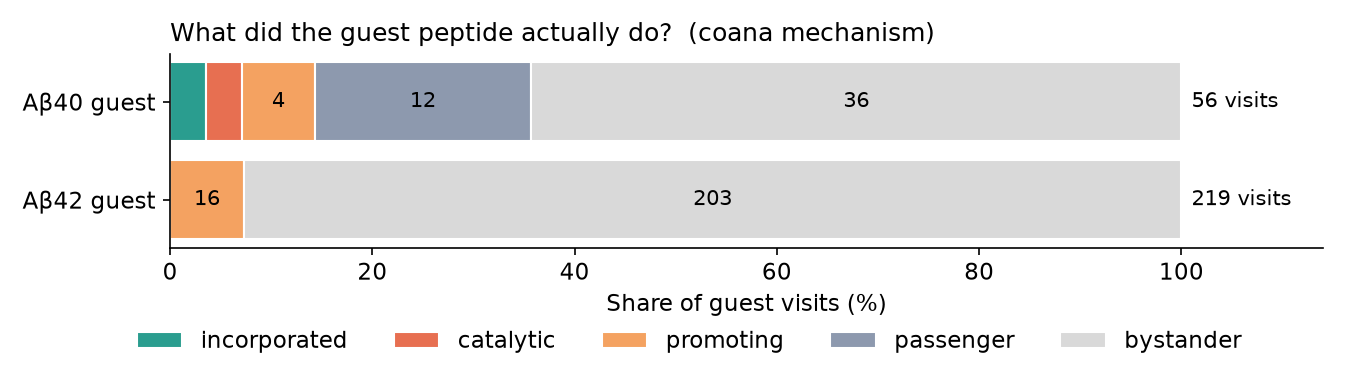
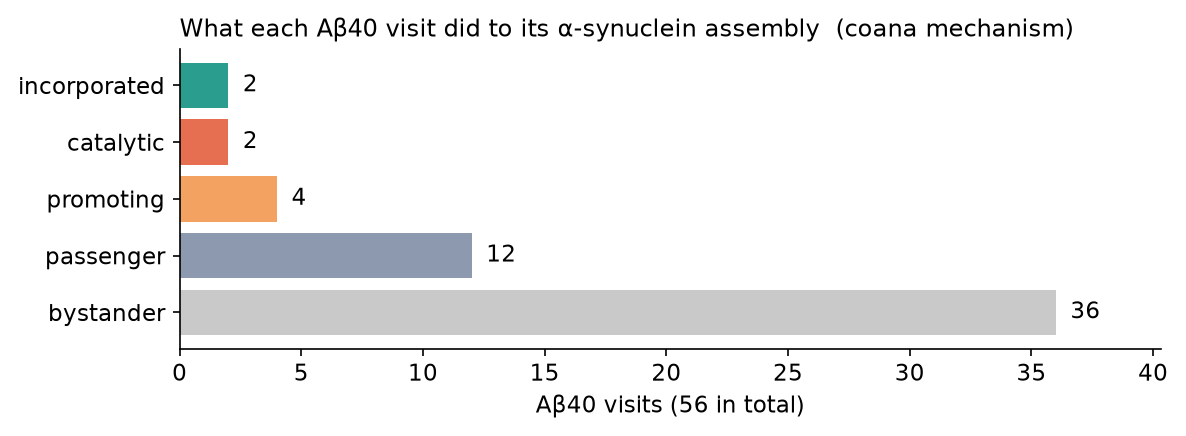
README: one-line promise, figures with their conditions, no cross-condition comparison
The three-run chart compared runs with different force-field parameters
(protein-water scaling 1.001 vs 1.010, different crowder scaling and
concentration), so its differences could not be read as effects of Abeta40
or Abeta42. It is removed. The README now leads with one run's lineage fates,
states each run's parameters, and shows the guest roles for a single run.
Quick start is three commands, checked on a real trajectory.

diff --git a/README.md b/README.md
@@ -1,6 +1,6 @@
 # CoAna — which oligomers mattered, and why
 
-*Lineage-aware analysis of protein aggregation in molecular dynamics.*
+**Find the oligomers that build the aggregate, not just count them.**
 
 [![PyPI](https://img.shields.io/pypi/v/coana.svg)](https://pypi.org/project/coana/)
 [![tests](https://github.com/nguoithamdo/CoAna/actions/workflows/ci.yml/badge.svg)](https://github.com/nguoithamdo/CoAna/actions/workflows/ci.yml)
@@ -13,63 +13,59 @@ you which lineages went on to build the final aggregate, which were dead ends,
 and what a second species (a guest peptide, a crowder partner) actually did while
 it was inside: incorporated, catalytic, passenger, promoting, or bystander.
 
-- **Reads trajectories directly** — PDB, GRO, TRR and XTC, with NumPy/SciPy only.
+![Lineage fate plot of one α-synuclein run](https://raw.githubusercontent.com/nguoithamdo/CoAna/main/docs/images/lineage_fate.png)
+
+*Every lineage in one run, coloured by fate: green lineages build the final
+43-chain assembly, red ones are dead ends. 50 α-synuclein chains, Martini 3
+with protein–water scaling λ<sub>PW</sub> = 1.001, no crowder, ≈519 µM,
+5 µs (5001 frames).*
+
+Cluster-counting tools tell you *which* clusters exist. CoAna tells you
+*which ones mattered* and *what a guest did*.
+
+- **Reads trajectories directly**: XTC, TRR, GRO and PDB, with NumPy/SciPy only.
   MDAnalysis is optional.
-- **Periodic boundaries done right** — exact minimum-image contacts; a trajectory
-  without a box is refused rather than analysed silently.
-- **Reproducible** — a re-run reproduces a production contact cache bit for bit.
-- **Tested** — every defect fixed since 3.4 has a regression test proven to fail
-  without its fix.
-
-**A short history.** CoAna (*Coupled Analysis Framework for Quantifying
-Biomolecular Assembly and Condensation Dynamics*) has been developed by
-Dr. Nguyen Truong Co since January 2024. It began as an analysis notebook for
-his own coarse-grained simulations of protein aggregation, and by December
-2025 it was a working research tool that two theses, one on α-synuclein phase
-separation and one on IAPP aggregation in type 2 diabetes, used for their
-analysis. In 2026 it became a package: a two-stage design with a reusable
-contact cache (spring), split/merge-aware lineages and fates (early summer),
-its own trajectory reader free of MDAnalysis (August), mixed systems and
-guest mechanisms (3.4, September), and a full correctness audit with an MIT
-license and the name `coana` (3.6, October). The full story is in
-[HISTORY.md](HISTORY.md).
-
-## What it looks like
-
-Three 5 µs Martini 3 simulations of 50 α-synuclein chains, analysed with CoAna.
-Alone, α-syn grows step by step into one 43-chain assembly. With Aβ40 and PEG it
-stalls at 23. With Aβ42 nothing grows past 6.
-
-![Largest assembly over time in three runs](https://raw.githubusercontent.com/nguoithamdo/CoAna/main/docs/images/three_runs.png)
-
-When a second peptide visits a cluster, `coana mechanism` labels the visit by
-what happened to the assembly. Most visits are brief encounters (bystander).
-Aβ40 also joins assemblies that have already committed (passenger), is there
-while an assembly grows (promoting), is present when one commits and then
-leaves (catalytic), or stays in the product (incorporated). Aβ42 visits are
-bystanders, apart from 16 during which the assembly grew.
-
-![Guest roles for Aβ40 and Aβ42](https://raw.githubusercontent.com/nguoithamdo/CoAna/main/docs/images/guest_roles.png)
-
-Every lineage, followed through splits and merges and coloured by its fate:
-on-pathway lineages feed the final aggregate; off-pathway ones are dead ends.
-
-![Lineage fate plot, α-syn alone](https://raw.githubusercontent.com/nguoithamdo/CoAna/main/docs/images/lineage_fate.png)
-
-How many clusters of each size exist at each moment (α-syn + Aβ40):
-
-![Oligomer size occupancy over time](https://raw.githubusercontent.com/nguoithamdo/CoAna/main/docs/images/size_time_heatmap.png)
-
-All four figures come from `coana precompute`, `coana lineage`,
-`coana mechanism` and `coana report` on these runs.
+- **Exact periodic contacts**: minimum-image contacts across every box face.
+- **Bit-for-bit reproducible**: re-running Stage A reproduces a production
+  contact cache exactly; 255 tests run on Linux and Windows.
 
 ```bash
 pip install coana
+coana precompute --traj prod.xtc --topology prod.gro --species aSyn:295x50 -o run.npz
+coana lineage run.npz        # on-/off-pathway lineages and their fates
+coana report  run.npz -o report.html
 ```
 
-Then `import coana` in Python, or run the `coana` command. The package was
-called `oligomer-analysis` before 3.6.0; `import oligomer_analysis` still
-works and refers to the very same modules.
+## More of what CoAna shows
+
+**What did the guest do?** In a run with 10 Aβ40 chains among the 50
+α-synuclein chains, `coana mechanism` labels each of the 56 Aβ40 visits by what
+happened to the assembly it visited. Most are brief encounters (bystander).
+Some join an assembly that has already committed (passenger), are there while
+it grows (promoting), are present when it commits and then leave (catalytic),
+or stay in the product (incorporated).
+
+![Guest roles of Aβ40 in one run](https://raw.githubusercontent.com/nguoithamdo/CoAna/main/docs/images/guest_roles.png)
+
+**How many clusters of each size, at every moment** (same run):
+
+![Oligomer size occupancy over time](https://raw.githubusercontent.com/nguoithamdo/CoAna/main/docs/images/size_time_heatmap.png)
+
+*The Aβ40 run: λ<sub>PW</sub> = 1.010 for α-synuclein–water, PEG-10000
+crowder with PEG–PEG scaling λ<sub>CC</sub> = 0.50, 5 µs. Its parameters
+differ from the run above, so the two runs are examples of CoAna's output,
+not a comparison between conditions.*
+
+## About
+
+CoAna, the *Coupled Analysis Framework for Quantifying Biomolecular Assembly
+and Condensation Dynamics*, has been developed by Dr. Nguyen Truong Co since
+January 2024. It is already used in research on α-synuclein phase separation
+and on IAPP aggregation in type 2 diabetes. The full story is in
+[HISTORY.md](HISTORY.md).
+
+The package was called `oligomer-analysis` before 3.6.0;
+`import oligomer_analysis` still works and refers to the very same modules.
 
 ## Quick start (`coana` CLI + HTML report)
 
